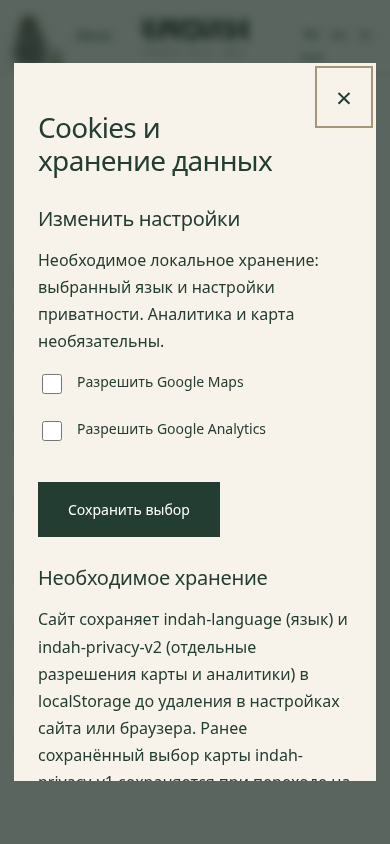
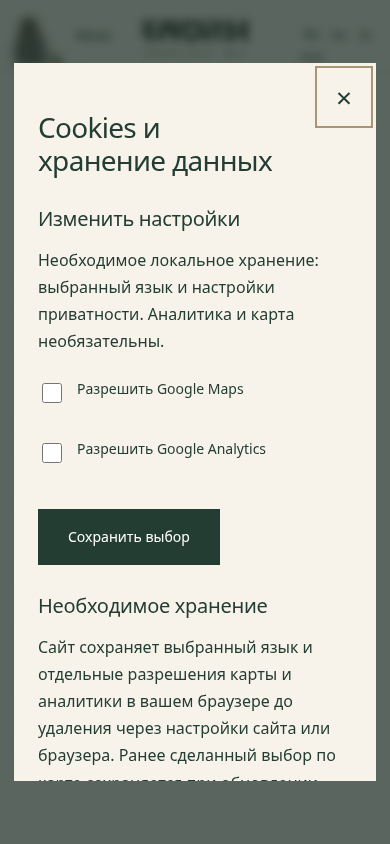
Save integration PR description and final consent previews

Changed region(s): [[0.0923, 0.4313, 0.8923, 0.9242]]

diff --git a/docs/INTEGRATIONS-PR.md b/docs/INTEGRATIONS-PR.md
@@ -1,0 +1,7 @@
+The enquiry form was disabled, direct messaging still used WhatsApp placeholders, and privacy choices covered only Maps. This change enables the configured Formspree endpoint, adds the real Telegram contact and loads GA4 only after a separate explicit analytics choice.
+
+Form submission validates Bali dates, guest limits and consent, prevents concurrent duplicate requests, preserves values on errors and reports success only after a positive provider response. Explicit GA4 events exclude form values and raw URL parameters. Analytics withdrawal disables collection and removes accessible owned cookies; legacy map permission is retained. CNAME stays villa-indah.com, with canonical/OG URLs, robots.txt and sitemap.xml updated for that domain. Cloudflare DNS and Pages deployment mode are unchanged.
+
+Validation: 18 isolated browser checks passed for consent/refusal/revocation, form loading/success/error and double-submit states, event timing/deduplication/PII exclusion, Telegram/email, 53 gallery photos/lightbox, macaques, Bali dates and RU/EN/ES at 375–1440 px. Service responses and the Google tag were mocked; these are not live delivery or GA account checks. Screenshots and results are in review/.
+
+Live attempts to Formspree, production HTTPS, the Google tag and Telegram were blocked by the environment proxy (403 before origin connection). Owner checks are required for the Formspree submission entry/email, real GA4 collection and Enhanced Measurement settings, generate_lead as a key event, Telegram destination and production HTTPS. See docs/INTEGRATIONS.md. Do not merge/deploy before owner confirmation.
